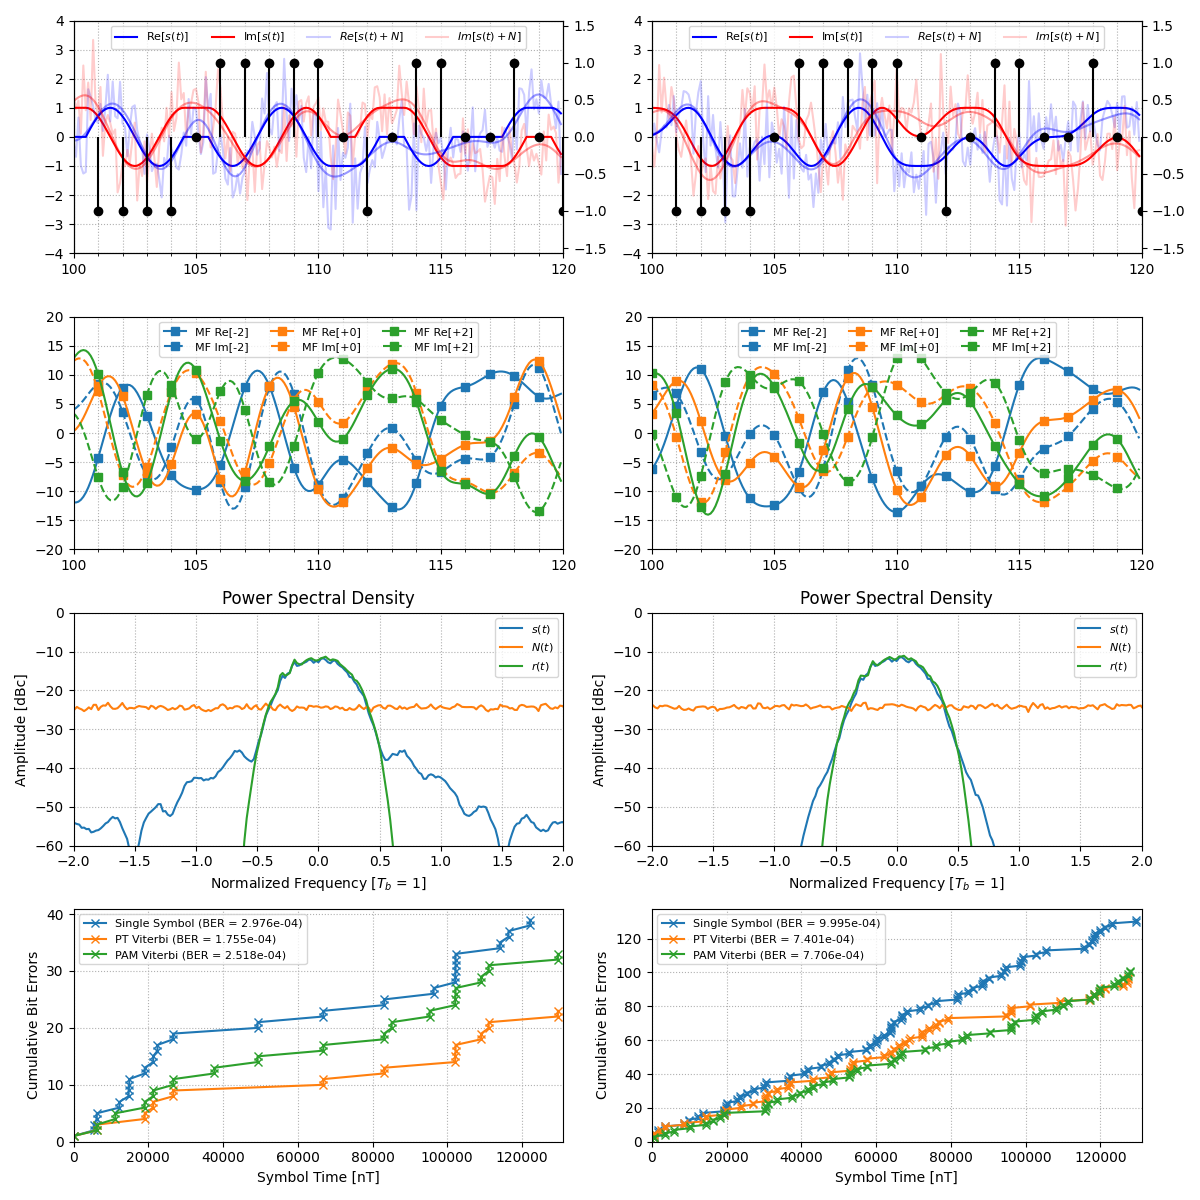
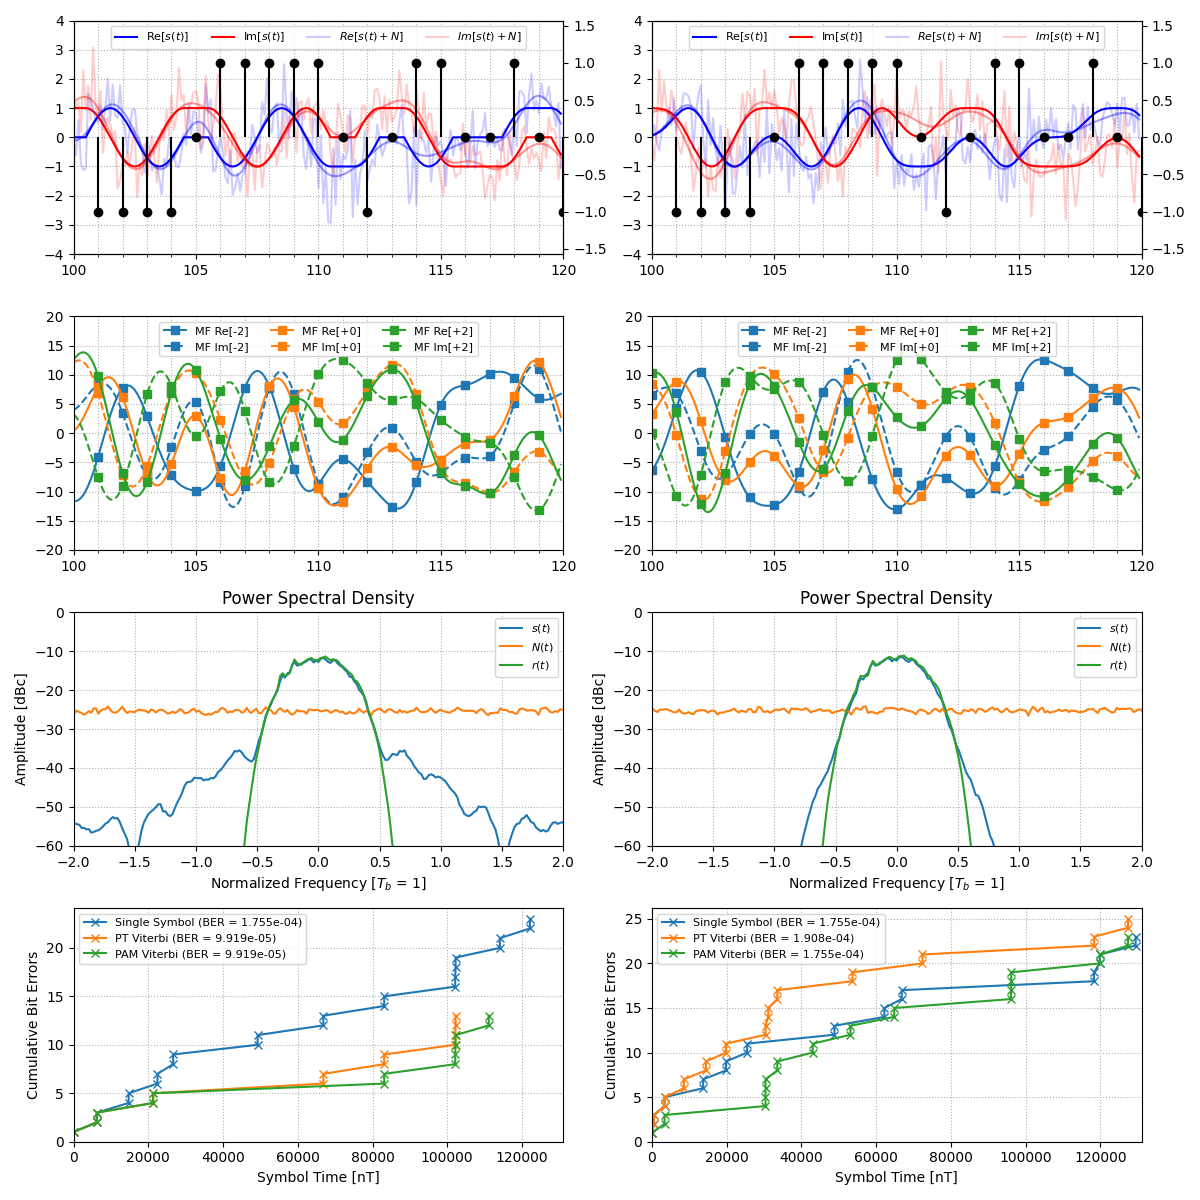
Remove some unused example code, generate some sxs constellation plots.

diff --git a/examples/soqpsk_detection.py b/examples/soqpsk_detection.py
@@ -44,7 +44,7 @@ if __name__ == "__main__":
     # Signal Processing Constants
     sps = 10
     fft_size = 2**9
-    ebn0 = 9  # Quasonix RDMS has a 1e-5 BER for SOQPSK-TG @ Eb/N0 = 11.2 dB
+    ebn0 = 10  # Quasonix RDMS has a 1e-5 BER for SOQPSK-TG @ Eb/N0 = 11.2 dB
     sigma = np.sqrt(sps / np.power(10, ebn0 / 10) / 2)
     filter_type = "hamming"
 
@@ -143,7 +143,6 @@ if __name__ == "__main__":
         )
         noise = generate_complex_awgn(sigma, modulated_signal.size, rng)
         modulated_signal[:] *= np.exp(-1j * np.pi / 4)
-        freq_pulses = np.angle(modulated_signal[1:] * modulated_signal.conj()[1:]) * sps / np.pi
 
         # Received signal
         unfiltered_signal: NDArray[np.complex128] = modulated_signal + noise
@@ -205,13 +204,6 @@ if __name__ == "__main__":
             basefmt=" ",
             label="Symbol",
         )
-        pulse_ax.plot(
-            normalized_time[:-1][t_min:t_max],
-            freq_pulses[t_min:t_max],
-            "k-",
-            alpha=0.4,
-            label="Frequency Pulses",
-        )
         pulse_ax.set_ylim(-np.pi / 2, np.pi / 2)
 
         # Display transmitted and received signal PSD to illustrate SNR
@@ -245,21 +237,12 @@ if __name__ == "__main__":
         pt_end = int((L + truncation) * sps / 2) + 1
         truncated_phase_pulse = q[pt_start:pt_end]
         mf_outputs_pt = np.zeros((3, received_signal.size), dtype=np.complex128)
-        mf_outputs_pt[0, :] = np.convolve(
-            received_signal,
-            np.exp(-2j * np.pi * mod_index * -2 * truncated_phase_pulse),
-            mode="same",
-        )
-        mf_outputs_pt[1, :] = np.convolve(
-            received_signal,
-            np.exp(-2j * np.pi * mod_index * +0 * truncated_phase_pulse),
-            mode="same",
-        )
-        mf_outputs_pt[2, :] = np.convolve(
-            received_signal,
-            np.exp(-2j * np.pi * mod_index * +2 * truncated_phase_pulse),
-            mode="same",
-        )
+        for i in range(3):
+            mf_outputs_pt[i, :] = np.convolve(
+                received_signal,
+                np.exp(-2j * np.pi * mod_index * 2 * (i - 1) * truncated_phase_pulse),
+                mode="same",
+            )
 
         # PAM De-composition rho pulses/matched filters
         rho = rho_pulses(pulse_filter, mod_index, sps, k_max=2)
@@ -434,14 +417,13 @@ if __name__ == "__main__":
         ax.legend(loc="upper left", fontsize=8, ncol=1)
 
     # Create and format constellation axis
-    fig_const, ax_const = plt.subplots(1, figsize=(4, 4), dpi=100)
+    fig_const, ax_const = plt.subplots(1, figsize=(5, 5), dpi=100)
     ax_const.set_xlim([-1.5, +1.5])
     ax_const.set_ylim([-1.5, +1.5])
     ax_const.xaxis.set_major_locator(MultipleLocator(1))
     ax_const.xaxis.set_minor_locator(MultipleLocator(0.25))
     ax_const.yaxis.set_major_locator(MultipleLocator(1))
     ax_const.yaxis.set_minor_locator(MultipleLocator(0.25))
-    ax_const.set_title("SOQPSK SxS I&D Constellation")
 
     plot_constellation(
         signal=np.array(constellation_out, dtype=np.complex128),
@@ -452,7 +434,9 @@ if __name__ == "__main__":
         markersize=1,
         color="b",
     )
+    ax_const.set_title(f"SOQPSK SxS I&D Constellation ($E_b/N_0 = {ebn0:.1f}$ dB)")
 
+    images_dir = Path(__file__).parent.parent / "images"
     fig_eye.tight_layout()
-    fig_eye.savefig(Path(__file__).parent.parent / "images" / "soqpsk_detection.png")
+    fig_eye.savefig(images_dir / "soqpsk_detection.png")
     plt.show()

diff --git a/examples/soqpsk_pam.py b/examples/soqpsk_pam.py
@@ -267,7 +267,7 @@ if __name__ == "__main__":
     qpsk_esque_signal[:] += pam_approx.imag * 1j
 
     # Create and format constellation axis
-    fig_const, ax_const = plt.subplots(1, figsize=(4, 4), dpi=100)
+    fig_const, ax_const = plt.subplots(1, figsize=(5, 5), dpi=100)
     ax_const.set_xlim([-2, 2])
     ax_const.set_ylim([-2, 2])
     ax_const.xaxis.set_major_locator(MultipleLocator(1))
